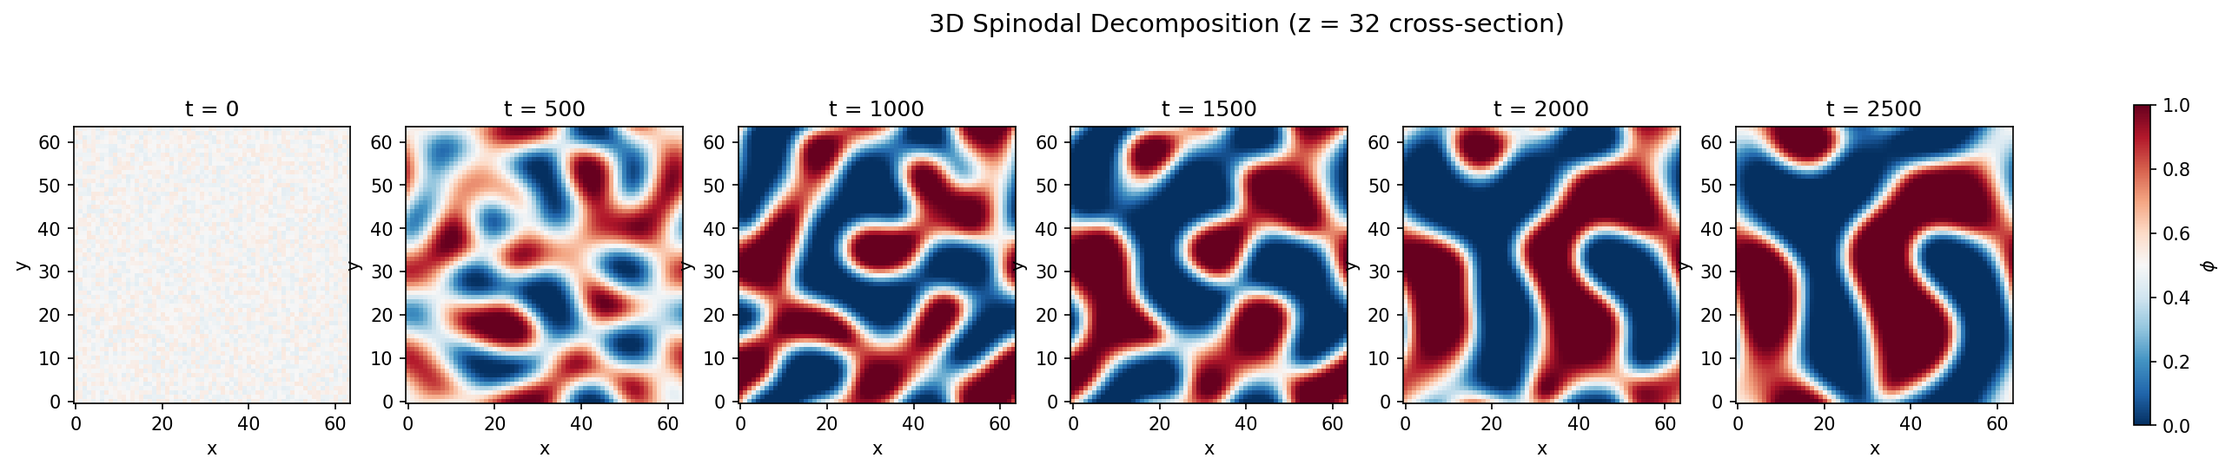
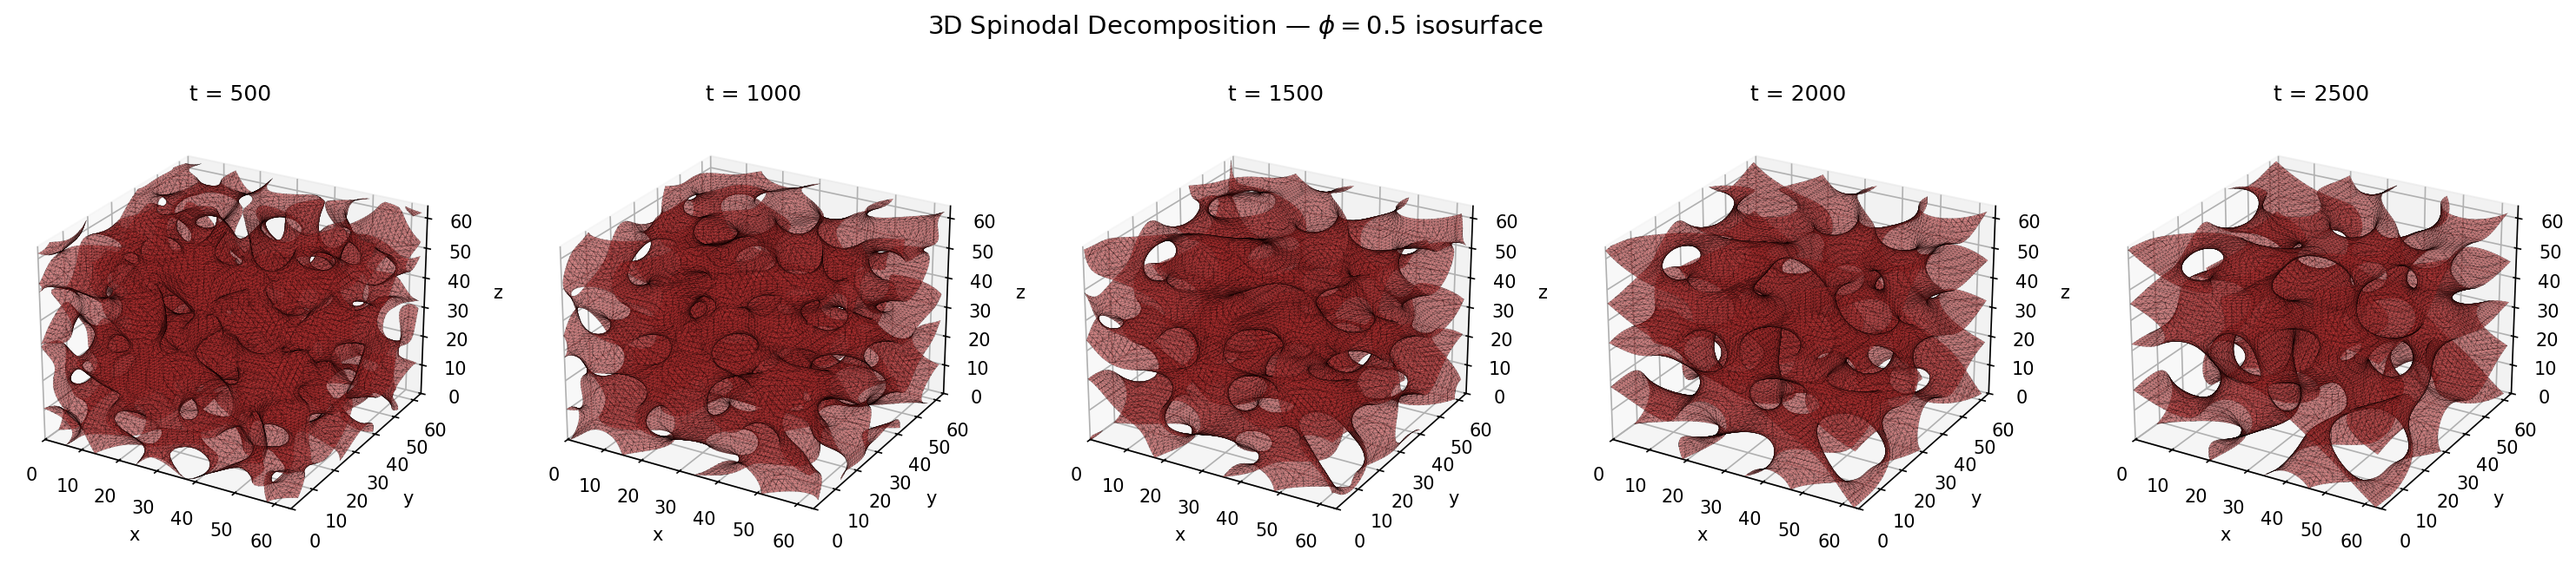
Replace 3D cross-section plot with isosurface rendering
Use marching cubes (scikit-image) to extract phi=0.5 isosurfaces
and render them as 3D Poly3DCollection views. Add scikit-image as
optional vis3d dependency and dev dependency.

https://claude.ai/code/session_01FZAWaxF8waBSbutsaEw85i

diff --git a/examples/spinodal_3d.py b/examples/spinodal_3d.py
@@ -1,11 +1,14 @@
 """Spinodal decomposition of a symmetric polymer blend (3D).
 
-This example simulates 3D spinodal decomposition and saves cross-section
-snapshots at z = Nz/2.
+This example simulates 3D spinodal decomposition and renders isosurface
+snapshots using marching cubes (requires ``scikit-image``).
 """
 
 import matplotlib.pyplot as plt
+import numpy as np
 import torch
+from mpl_toolkits.mplot3d.art3d import Poly3DCollection
+from skimage.measure import marching_cubes
 
 from torch_pf import (
     CahnHilliardSolver,
@@ -15,6 +18,26 @@ from torch_pf import (
 )
 
 
+def plot_isosurface(ax, phi_np, level=0.5, color="#b03030", alpha=0.6):
+    """Render a phi=level isosurface on a 3D axes."""
+    verts, faces, _, _ = marching_cubes(phi_np, level=level)
+    mesh = Poly3DCollection(
+        verts[faces],
+        alpha=alpha,
+        edgecolor="k",
+        linewidth=0.1,
+    )
+    mesh.set_facecolor(color)
+    ax.add_collection3d(mesh)
+    n = phi_np.shape[0]
+    ax.set_xlim(0, n)
+    ax.set_ylim(0, n)
+    ax.set_zlim(0, n)
+    ax.set_xlabel("x")
+    ax.set_ylabel("y")
+    ax.set_zlabel("z")
+
+
 def main() -> None:
     device = "cuda" if torch.cuda.is_available() else "cpu"
     print(f"Using device: {device}")
@@ -22,7 +45,7 @@ def main() -> None:
     free_energy = FloryHuggins(chi=0.1, n_a=100, n_b=100)
     print(f"chi = {free_energy.chi}, chi_c = {free_energy.chi_critical:.4f}")
 
-    N = 64  # 64^3 grid
+    N = 64
     params = SimulationParams(
         shape=(N, N, N),
         dx=1.0,
@@ -50,22 +73,23 @@ def main() -> None:
         fe = solver.compute_total_free_energy(phi_dev)
         print(f"  step {step:6d}: F = {fe:.2f}")
 
-    # Plot cross-sections at z = N/2
-    z_mid = N // 2
-    n_snapshots = len(snapshots)
-    fig, axes = plt.subplots(1, n_snapshots, figsize=(4 * n_snapshots, 4))
-    if n_snapshots == 1:
-        axes = [axes]
+    # --- 3D isosurface rendering ---
+    # Skip t=0 (uniform field has no meaningful isosurface)
+    plot_snapshots = [(s, p) for s, p in snapshots if s > 0]
+    n_plots = len(plot_snapshots)
+    fig = plt.figure(figsize=(5 * n_plots, 5))
 
-    for ax, (step, phi) in zip(axes, snapshots):
-        cross = phi[:, :, z_mid].numpy().T
-        im = ax.imshow(cross, origin="lower", cmap="RdBu_r", vmin=0, vmax=1)
-        ax.set_title(f"t = {step * params.dt:.0f}")
-        ax.set_xlabel("x")
-        ax.set_ylabel("y")
+    for i, (step, phi) in enumerate(plot_snapshots):
+        ax = fig.add_subplot(1, n_plots, i + 1, projection="3d")
+        phi_np = phi.numpy()
+        plot_isosurface(ax, phi_np, level=0.5, color="#b03030", alpha=0.6)
+        ax.set_title(f"t = {step * params.dt:.0f}", fontsize=12)
+        ax.view_init(elev=25, azim=-60)
 
-    fig.colorbar(im, ax=axes, label=r"$\phi$", shrink=0.8)
-    fig.suptitle(f"3D Spinodal Decomposition (z = {z_mid} cross-section)", fontsize=14)
+    fig.suptitle(
+        r"3D Spinodal Decomposition — $\phi = 0.5$ isosurface",
+        fontsize=14,
+    )
     plt.savefig("examples/results/spinodal_3d.png", dpi=150, bbox_inches="tight")
     print("\nSaved examples/results/spinodal_3d.png")
 
